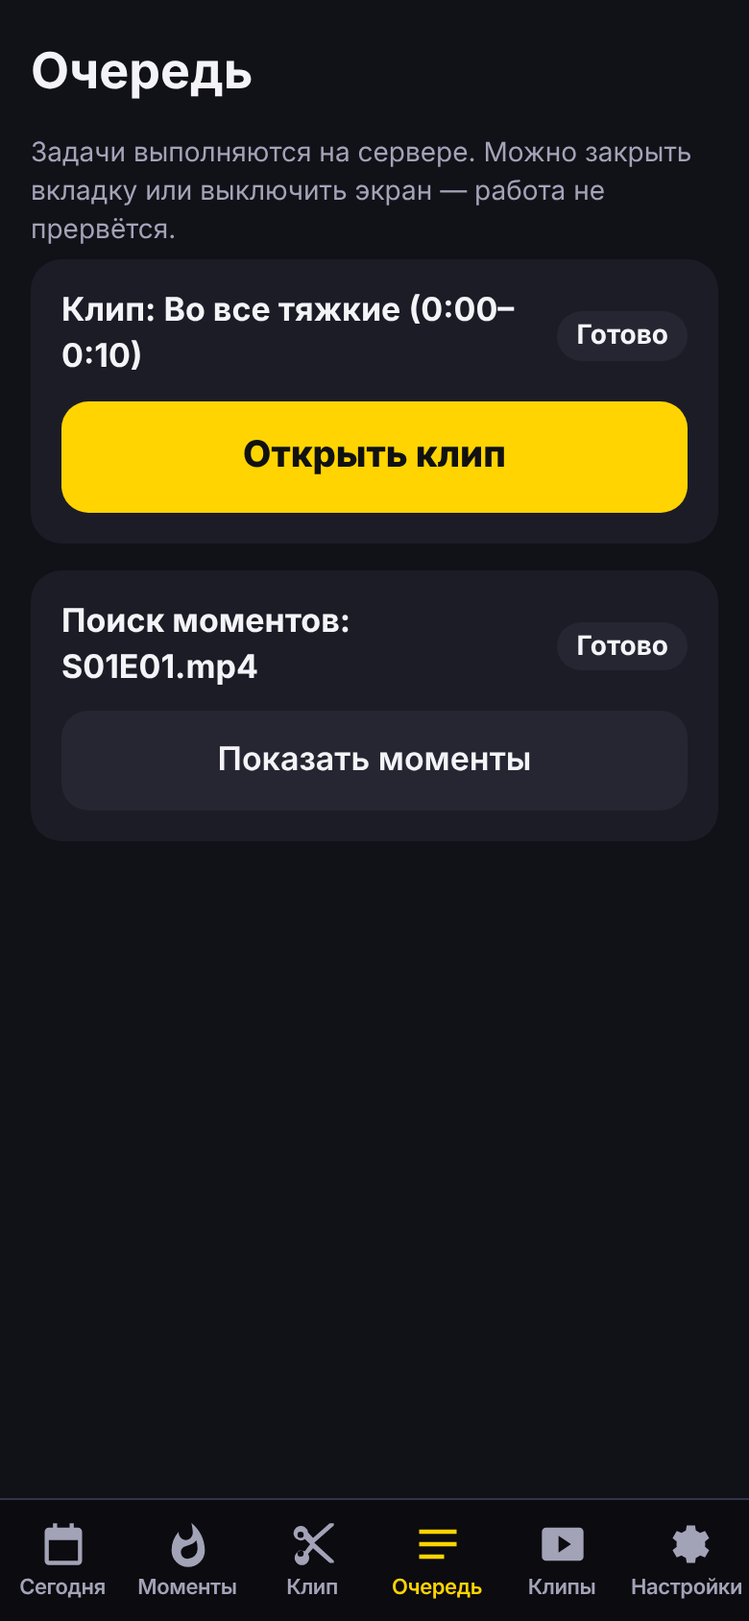
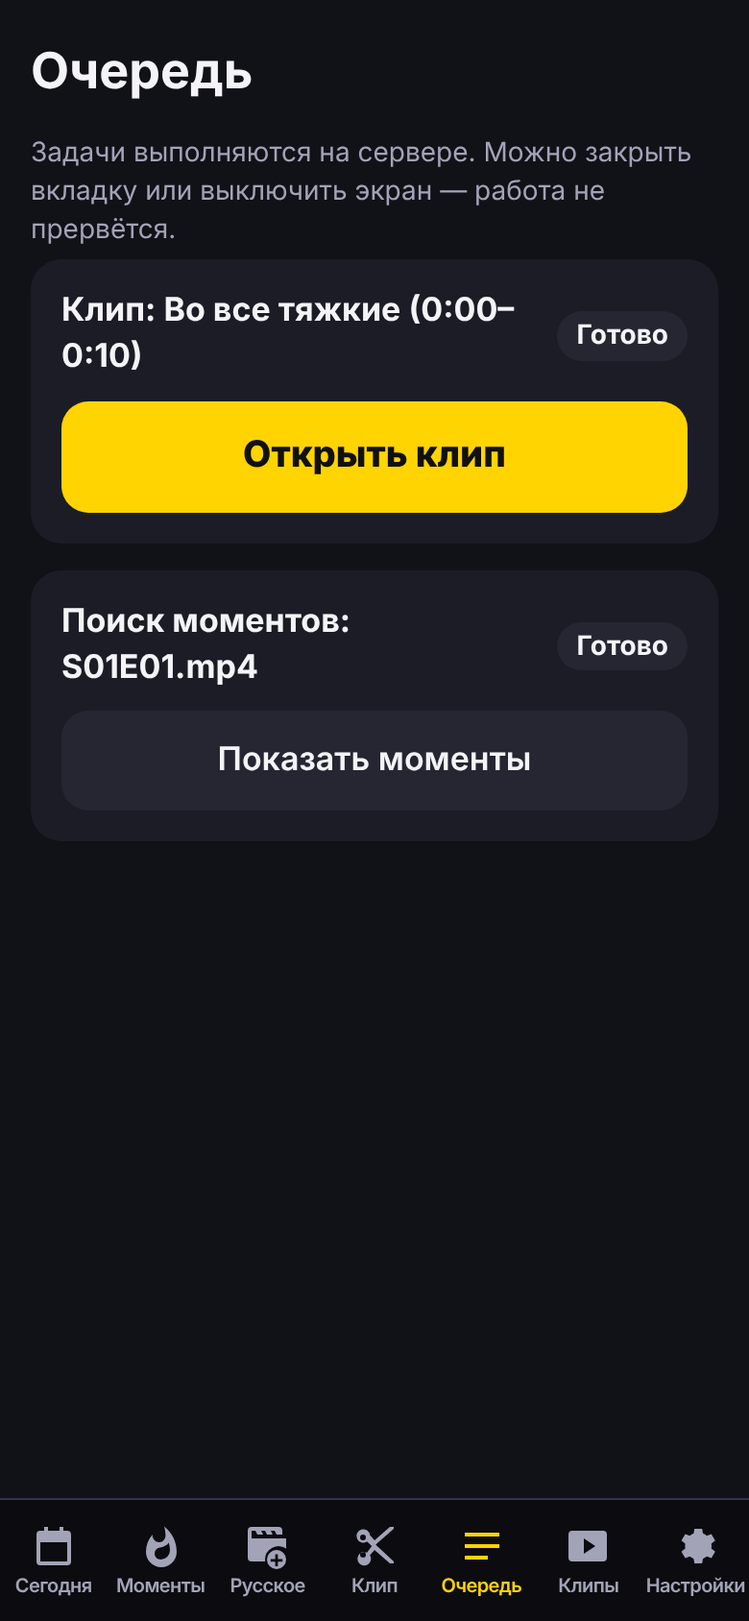
Android 1.6.0: вкладка «Русское» — русские и советские сериалы и фильмы из TMDB
- популярные сейчас, лучшие по рейтингу (с порогом голосов), новинки за год; сериалы и фильмы отдельно
- «Добавить в источники» создаёт источник, уже привязанный к TMDB; «есть у вас» для добавленных
- тесты ядра (параметры запроса, кэш, пометки) и UI-тест вкладки; раздел 4.3 инструкции

Claude-Session: https://claude.ai/code/session_01GmRk3o1bWmQHZC2pcQfkKJ

Changed region(s): [[0.1538, 0.9242, 1.0, 0.9858], [0.0308, 0.9242, 0.1231, 0.9858]]

diff --git a/android/app/src/main/assets/web/app.js b/android/app/src/main/assets/web/app.js
@@ -70,7 +70,7 @@ async function pollJob(id, onUpdate) {
 function bar(frac) { return `<div class="progress"><i style="width:${Math.round((frac || 0) * 100)}%"></i></div>`; }
 
 // ------------------------------------------------------------------ роутер
-const routes = { today: viewToday, discover: viewDiscover, clip: viewClip, cam: viewCam, queue: viewQueue, clips: viewClips,
+const routes = { today: viewToday, discover: viewDiscover, ru: viewRu, clip: viewClip, cam: viewCam, queue: viewQueue, clips: viewClips,
   clipview: viewClipView, settings: viewSettings, source: viewSource };
 
 function parseHash() {
@@ -948,6 +948,61 @@ async function tmdbSource(id, refresh) {
   }));
 }
 
+// ------------------------------------------------------------------ «Русское»: русские и советские сериалы и фильмы (TMDB)
+const RU_KINDS = [["popular", "Популярные сейчас"], ["top", "Лучшие по рейтингу"], ["new", "Новинки за год"]];
+async function viewRu(_arg, q) {
+  const seq = S.seq;
+  await loadCfg();
+  if (staleSince(seq)) return;
+  S.ru = S.ru || { type: "tv", kind: "popular" };
+  const st = S.ru;
+  app.innerHTML = `<h1>Русское</h1>
+  <div class="seg" id="ruType"><button data-t="tv" class="${st.type === "tv" ? "on" : ""}">Сериалы</button><button data-t="movie" class="${st.type === "movie" ? "on" : ""}">Фильмы</button></div>
+  <div class="seg seg3" id="ruKind" style="margin-top:8px">${RU_KINDS.map(([k, n]) => `<button data-k="${k}" class="${st.kind === k ? "on" : ""}">${n}</button>`).join("")}</div>
+  <p class="muted small" style="margin:10px 2px">Русские и советские ${st.type === "tv" ? "сериалы" : "фильмы"} по данным TMDB. «Добавить в источники» —
+    и дальше как обычно: выберите папку, куда положили видео, и автоплан найдёт моменты.</p>
+  <div id="ruBox"><p class="muted pad">Загружаю…</p></div>`;
+  $$("#ruType button").forEach((b) => (b.onclick = () => { st.type = b.dataset.t; viewRu(); }));
+  $$("#ruKind button").forEach((b) => (b.onclick = () => { st.kind = b.dataset.k; viewRu(); }));
+  let page = 1, items = [];
+  const box = $("#ruBox");
+  const load = async (refresh) => {
+    let d;
+    try { d = await api(`/api/tmdb/ru?type=${st.type}&kind=${st.kind}&page=${page}` + (refresh ? "&refresh=1" : "")); }
+    catch (e) { box.innerHTML = `<p class="err pad">${esc(e.message)}</p>`; return; }
+    if (staleSince(seq) || !box.isConnected) return;
+    if (!d.configured) {
+      box.innerHTML = `<div class="card stack"><h2>Нужен ключ TMDB</h2>
+        <p>Списки берутся из TMDB. Ключ бесплатный: themoviedb.org → «Настройки» → «API» (пошагово — в инструкции, раздел 4.2).</p>
+        <a class="btn primary" href="#/settings">Ввести ключ в «Настройках»</a></div>`;
+      return;
+    }
+    items = items.concat(d.items || []);
+    box.innerHTML = `<div class="card">${items.length ? items.map((t, i) => `<div class="ruitem">
+        <b class="wrap">${i + 1}. ${esc(t.title)}${t.year ? ` (${esc(t.year)})` : ""}</b>
+        <span class="small">★ ${fmtRating(t.rating)} <span class="muted">· ${t.votes} голосов</span>${t.source_id ? ' · <span class="ok">есть у вас</span>' : ""}</span>
+        ${t.overview ? `<span class="muted small wrap">${esc(t.overview)}</span>` : ""}
+        <div class="row">${t.source_id ? `<a class="btn sm" href="#/source/${encodeURIComponent(t.source_id)}">Открыть источник</a>`
+          : `<button class="btn sm primary" data-add="${i}">Добавить в источники</button>`}
+          <a class="btn sm ghost" target="_blank" rel="noopener" href="https://www.themoviedb.org/${t.type}/${t.id}?language=ru-RU">TMDB ↗</a></div></div>`).join("")
+        : `<p class="muted">Ничего не нашлось.</p>`}
+      ${d.page < d.total_pages && page < 20 ? `<div style="height:10px"></div><button class="btn ghost" id="ruMore">Показать ещё</button>` : ""}</div>`;
+    $$("[data-add]", box).forEach((b) => (b.onclick = async () => {
+      const t = items[+b.dataset.add];
+      b.disabled = true;
+      const saved = await api("/api/sources", { method: "POST", body: { type: t.type === "tv" ? "series" : "movie", title: t.title,
+        tmdb_id: t.id, tmdb_type: t.type, enabled: true } }).catch(() => null);
+      if (!saved) { b.disabled = false; return; }
+      await loadCfg(true);
+      toast("Добавлено. Выберите папку с видео и сохраните");
+      go(`#/source/${encodeURIComponent(saved.id)}`);
+    }));
+    const more = $("#ruMore", box);
+    if (more) more.onclick = () => { more.disabled = true; page++; load(false); };
+  };
+  load(!!(q && q.get && q.get("refresh") === "1"));
+}
+
 function appAsrCard(st, se) {
   const models = st.asr_models || [];
   const langs = [["auto", "Определять автоматически"], ["ru", "Русский"], ["en", "English"], ["uk", "Українська"]];
@@ -1079,5 +1134,8 @@ async function viewSource(id) {
 
 // ------------------------------------------------------------------ старт
 if (!APP && "serviceWorker" in navigator && window.isSecureContext) navigator.serviceWorker.register("/sw.js").catch(() => {});
-if (APP) { const t = $('#nav a[data-tab="discover"]'); t.hidden = false; $("#nav").classList.add("n6"); }
+if (APP) {
+  for (const k of ["discover", "ru"]) $(`#nav a[data-tab="${k}"]`).hidden = false;
+  $("#nav").classList.add("n7");
+}
 route(); refreshBadge();

diff --git a/tclip/static/app.js b/tclip/static/app.js
@@ -70,7 +70,7 @@ async function pollJob(id, onUpdate) {
 function bar(frac) { return `<div class="progress"><i style="width:${Math.round((frac || 0) * 100)}%"></i></div>`; }
 
 // ------------------------------------------------------------------ роутер
-const routes = { today: viewToday, discover: viewDiscover, clip: viewClip, cam: viewCam, queue: viewQueue, clips: viewClips,
+const routes = { today: viewToday, discover: viewDiscover, ru: viewRu, clip: viewClip, cam: viewCam, queue: viewQueue, clips: viewClips,
   clipview: viewClipView, settings: viewSettings, source: viewSource };
 
 function parseHash() {
@@ -948,6 +948,61 @@ async function tmdbSource(id, refresh) {
   }));
 }
 
+// ------------------------------------------------------------------ «Русское»: русские и советские сериалы и фильмы (TMDB)
+const RU_KINDS = [["popular", "Популярные сейчас"], ["top", "Лучшие по рейтингу"], ["new", "Новинки за год"]];
+async function viewRu(_arg, q) {
+  const seq = S.seq;
+  await loadCfg();
+  if (staleSince(seq)) return;
+  S.ru = S.ru || { type: "tv", kind: "popular" };
+  const st = S.ru;
+  app.innerHTML = `<h1>Русское</h1>
+  <div class="seg" id="ruType"><button data-t="tv" class="${st.type === "tv" ? "on" : ""}">Сериалы</button><button data-t="movie" class="${st.type === "movie" ? "on" : ""}">Фильмы</button></div>
+  <div class="seg seg3" id="ruKind" style="margin-top:8px">${RU_KINDS.map(([k, n]) => `<button data-k="${k}" class="${st.kind === k ? "on" : ""}">${n}</button>`).join("")}</div>
+  <p class="muted small" style="margin:10px 2px">Русские и советские ${st.type === "tv" ? "сериалы" : "фильмы"} по данным TMDB. «Добавить в источники» —
+    и дальше как обычно: выберите папку, куда положили видео, и автоплан найдёт моменты.</p>
+  <div id="ruBox"><p class="muted pad">Загружаю…</p></div>`;
+  $$("#ruType button").forEach((b) => (b.onclick = () => { st.type = b.dataset.t; viewRu(); }));
+  $$("#ruKind button").forEach((b) => (b.onclick = () => { st.kind = b.dataset.k; viewRu(); }));
+  let page = 1, items = [];
+  const box = $("#ruBox");
+  const load = async (refresh) => {
+    let d;
+    try { d = await api(`/api/tmdb/ru?type=${st.type}&kind=${st.kind}&page=${page}` + (refresh ? "&refresh=1" : "")); }
+    catch (e) { box.innerHTML = `<p class="err pad">${esc(e.message)}</p>`; return; }
+    if (staleSince(seq) || !box.isConnected) return;
+    if (!d.configured) {
+      box.innerHTML = `<div class="card stack"><h2>Нужен ключ TMDB</h2>
+        <p>Списки берутся из TMDB. Ключ бесплатный: themoviedb.org → «Настройки» → «API» (пошагово — в инструкции, раздел 4.2).</p>
+        <a class="btn primary" href="#/settings">Ввести ключ в «Настройках»</a></div>`;
+      return;
+    }
+    items = items.concat(d.items || []);
+    box.innerHTML = `<div class="card">${items.length ? items.map((t, i) => `<div class="ruitem">
+        <b class="wrap">${i + 1}. ${esc(t.title)}${t.year ? ` (${esc(t.year)})` : ""}</b>
+        <span class="small">★ ${fmtRating(t.rating)} <span class="muted">· ${t.votes} голосов</span>${t.source_id ? ' · <span class="ok">есть у вас</span>' : ""}</span>
+        ${t.overview ? `<span class="muted small wrap">${esc(t.overview)}</span>` : ""}
+        <div class="row">${t.source_id ? `<a class="btn sm" href="#/source/${encodeURIComponent(t.source_id)}">Открыть источник</a>`
+          : `<button class="btn sm primary" data-add="${i}">Добавить в источники</button>`}
+          <a class="btn sm ghost" target="_blank" rel="noopener" href="https://www.themoviedb.org/${t.type}/${t.id}?language=ru-RU">TMDB ↗</a></div></div>`).join("")
+        : `<p class="muted">Ничего не нашлось.</p>`}
+      ${d.page < d.total_pages && page < 20 ? `<div style="height:10px"></div><button class="btn ghost" id="ruMore">Показать ещё</button>` : ""}</div>`;
+    $$("[data-add]", box).forEach((b) => (b.onclick = async () => {
+      const t = items[+b.dataset.add];
+      b.disabled = true;
+      const saved = await api("/api/sources", { method: "POST", body: { type: t.type === "tv" ? "series" : "movie", title: t.title,
+        tmdb_id: t.id, tmdb_type: t.type, enabled: true } }).catch(() => null);
+      if (!saved) { b.disabled = false; return; }
+      await loadCfg(true);
+      toast("Добавлено. Выберите папку с видео и сохраните");
+      go(`#/source/${encodeURIComponent(saved.id)}`);
+    }));
+    const more = $("#ruMore", box);
+    if (more) more.onclick = () => { more.disabled = true; page++; load(false); };
+  };
+  load(!!(q && q.get && q.get("refresh") === "1"));
+}
+
 function appAsrCard(st, se) {
   const models = st.asr_models || [];
   const langs = [["auto", "Определять автоматически"], ["ru", "Русский"], ["en", "English"], ["uk", "Українська"]];
@@ -1079,5 +1134,8 @@ async function viewSource(id) {
 
 // ------------------------------------------------------------------ старт
 if (!APP && "serviceWorker" in navigator && window.isSecureContext) navigator.serviceWorker.register("/sw.js").catch(() => {});
-if (APP) { const t = $('#nav a[data-tab="discover"]'); t.hidden = false; $("#nav").classList.add("n6"); }
+if (APP) {
+  for (const k of ["discover", "ru"]) $(`#nav a[data-tab="${k}"]`).hidden = false;
+  $("#nav").classList.add("n7");
+}
 route(); refreshBadge();

diff --git a/android/app/src/main/assets/web/index.html b/android/app/src/main/assets/web/index.html
@@ -19,6 +19,7 @@
 <nav id="nav">
   <a href="#/today" data-tab="today"><svg viewBox="0 0 24 24"><path d="M7 2v2H5a2 2 0 0 0-2 2v14a2 2 0 0 0 2 2h14a2 2 0 0 0 2-2V6a2 2 0 0 0-2-2h-2V2h-2v2H9V2zm-2 8h14v10H5z"/></svg><span>Сегодня</span></a>
   <a href="#/discover" data-tab="discover" hidden><svg viewBox="0 0 24 24"><path d="M13.5 1.7s.7 2.6.7 4.7c0 2-1.3 3.6-3.3 3.6S7.4 8.4 7.4 6.4l.03-.36A13.4 13.4 0 0 0 4 15a8 8 0 0 0 16 0c0-5.4-2.6-10.2-6.5-13.3M11.7 19c-1.8 0-3.2-1.4-3.2-3.1 0-1.6 1-2.7 2.8-3.1 1.8-.4 3.6-1.2 4.6-2.6.4 1.3.6 2.7.6 4.1A4.8 4.8 0 0 1 11.7 19"/></svg><span>Моменты</span></a>
+  <a href="#/ru" data-tab="ru" hidden><svg viewBox="0 0 24 24"><path d="M4 4h2l1 2h3L9 4h2l1 2h3l-1-2h2l1 2h3V4a2 2 0 0 0-2-2H4a2 2 0 0 0-2 2v14a2 2 0 0 0 2 2h7.1a6.5 6.5 0 0 1-.1-1A7 7 0 0 1 22 13.3V8H4zm13 10a5 5 0 1 0 0 10 5 5 0 0 0 0-10m-.7 2.3h1.4v2.4h2.4v1.4h-2.4v2.4h-1.4v-2.4h-2.4v-1.4h2.4z"/></svg><span>Русское</span></a>
   <a href="#/clip" data-tab="clip"><svg viewBox="0 0 24 24"><path d="M9.6 6.3 12 9l8-7h2v1l-9.4 8.3L22 20v1h-2l-8-7-2.4 2.7a3.5 3.5 0 1 1-1.5-1.3L10.6 12 8.1 9.6A3.5 3.5 0 1 1 9.6 6.3M6 9a1.5 1.5 0 1 0 0-3 1.5 1.5 0 0 0 0 3m0 9a1.5 1.5 0 1 0 0-3 1.5 1.5 0 0 0 0 3"/></svg><span>Клип</span></a>
   <a href="#/queue" data-tab="queue"><svg viewBox="0 0 24 24"><path d="M3 5h18v2H3zm0 6h18v2H3zm0 6h12v2H3z"/></svg><span>Очередь</span><b id="qbadge" hidden></b></a>
   <a href="#/clips" data-tab="clips"><svg viewBox="0 0 24 24"><path d="M4 4h16a2 2 0 0 1 2 2v12a2 2 0 0 1-2 2H4a2 2 0 0 1-2-2V6a2 2 0 0 1 2-2m6 4v8l6-4z"/></svg><span>Клипы</span></a>

diff --git a/tclip/static/index.html b/tclip/static/index.html
@@ -19,6 +19,7 @@
 <nav id="nav">
   <a href="#/today" data-tab="today"><svg viewBox="0 0 24 24"><path d="M7 2v2H5a2 2 0 0 0-2 2v14a2 2 0 0 0 2 2h14a2 2 0 0 0 2-2V6a2 2 0 0 0-2-2h-2V2h-2v2H9V2zm-2 8h14v10H5z"/></svg><span>Сегодня</span></a>
   <a href="#/discover" data-tab="discover" hidden><svg viewBox="0 0 24 24"><path d="M13.5 1.7s.7 2.6.7 4.7c0 2-1.3 3.6-3.3 3.6S7.4 8.4 7.4 6.4l.03-.36A13.4 13.4 0 0 0 4 15a8 8 0 0 0 16 0c0-5.4-2.6-10.2-6.5-13.3M11.7 19c-1.8 0-3.2-1.4-3.2-3.1 0-1.6 1-2.7 2.8-3.1 1.8-.4 3.6-1.2 4.6-2.6.4 1.3.6 2.7.6 4.1A4.8 4.8 0 0 1 11.7 19"/></svg><span>Моменты</span></a>
+  <a href="#/ru" data-tab="ru" hidden><svg viewBox="0 0 24 24"><path d="M4 4h2l1 2h3L9 4h2l1 2h3l-1-2h2l1 2h3V4a2 2 0 0 0-2-2H4a2 2 0 0 0-2 2v14a2 2 0 0 0 2 2h7.1a6.5 6.5 0 0 1-.1-1A7 7 0 0 1 22 13.3V8H4zm13 10a5 5 0 1 0 0 10 5 5 0 0 0 0-10m-.7 2.3h1.4v2.4h2.4v1.4h-2.4v2.4h-1.4v-2.4h-2.4v-1.4h2.4z"/></svg><span>Русское</span></a>
   <a href="#/clip" data-tab="clip"><svg viewBox="0 0 24 24"><path d="M9.6 6.3 12 9l8-7h2v1l-9.4 8.3L22 20v1h-2l-8-7-2.4 2.7a3.5 3.5 0 1 1-1.5-1.3L10.6 12 8.1 9.6A3.5 3.5 0 1 1 9.6 6.3M6 9a1.5 1.5 0 1 0 0-3 1.5 1.5 0 0 0 0 3m0 9a1.5 1.5 0 1 0 0-3 1.5 1.5 0 0 0 0 3"/></svg><span>Клип</span></a>
   <a href="#/queue" data-tab="queue"><svg viewBox="0 0 24 24"><path d="M3 5h18v2H3zm0 6h18v2H3zm0 6h12v2H3z"/></svg><span>Очередь</span><b id="qbadge" hidden></b></a>
   <a href="#/clips" data-tab="clips"><svg viewBox="0 0 24 24"><path d="M4 4h16a2 2 0 0 1 2 2v12a2 2 0 0 1-2 2H4a2 2 0 0 1-2-2V6a2 2 0 0 1 2-2m6 4v8l6-4z"/></svg><span>Клипы</span></a>

diff --git a/android/app/src/main/assets/web/app.css b/android/app/src/main/assets/web/app.css
@@ -121,6 +121,8 @@ input[type=range]::-moz-range-thumb { width: 26px; height: 26px; border-radius: 
 #nav a.on { color: var(--accent); }
 #nav a[hidden] { display: none; }
 #nav.n6 a { font-size: 11px; letter-spacing: -.2px; }
+#nav.n7 a { font-size: 10px; letter-spacing: -.3px; }
+#nav.n7 a svg { width: 24px; height: 24px; }
 #qbadge { position: absolute; top: 6px; left: 54%; min-width: 20px; height: 20px; padding: 0 5px; border-radius: 10px; background: var(--err);
   color: #fff; font-size: 12px; line-height: 20px; text-align: center; }
 #toast { position: fixed; left: 16px; right: 16px; bottom: calc(var(--nav-h) + env(safe-area-inset-bottom) + 12px);
@@ -141,3 +143,7 @@ details.card > summary { cursor: pointer; min-height: 32px; display: flex; align
 .mom .row .btn { width: auto; flex: 1; }
 .sheet { position: fixed; inset: 0; background: rgba(0, 0, 0, .6); z-index: 20; display: flex; align-items: flex-end; }
 .sheet > div { background: var(--card); width: 100%; max-height: 85vh; overflow-y: auto; border-radius: 18px 18px 0 0; padding: 16px 16px calc(16px + env(safe-area-inset-bottom)); }
+
+/* «Русское» */
+.ruitem { display: flex; flex-direction: column; gap: 6px; padding: 12px; border-radius: 12px; background: var(--card2); margin-top: 8px; }
+.ruitem .row .btn { width: auto; flex: 1; }

diff --git a/tclip/static/app.css b/tclip/static/app.css
@@ -121,6 +121,8 @@ input[type=range]::-moz-range-thumb { width: 26px; height: 26px; border-radius: 
 #nav a.on { color: var(--accent); }
 #nav a[hidden] { display: none; }
 #nav.n6 a { font-size: 11px; letter-spacing: -.2px; }
+#nav.n7 a { font-size: 10px; letter-spacing: -.3px; }
+#nav.n7 a svg { width: 24px; height: 24px; }
 #qbadge { position: absolute; top: 6px; left: 54%; min-width: 20px; height: 20px; padding: 0 5px; border-radius: 10px; background: var(--err);
   color: #fff; font-size: 12px; line-height: 20px; text-align: center; }
 #toast { position: fixed; left: 16px; right: 16px; bottom: calc(var(--nav-h) + env(safe-area-inset-bottom) + 12px);
@@ -141,3 +143,7 @@ details.card > summary { cursor: pointer; min-height: 32px; display: flex; align
 .mom .row .btn { width: auto; flex: 1; }
 .sheet { position: fixed; inset: 0; background: rgba(0, 0, 0, .6); z-index: 20; display: flex; align-items: flex-end; }
 .sheet > div { background: var(--card); width: 100%; max-height: 85vh; overflow-y: auto; border-radius: 18px 18px 0 0; padding: 16px 16px calc(16px + env(safe-area-inset-bottom)); }
+
+/* «Русское» */
+.ruitem { display: flex; flex-direction: column; gap: 6px; padding: 12px; border-radius: 12px; background: var(--card2); margin-top: 8px; }
+.ruitem .row .btn { width: auto; flex: 1; }

diff --git a/android/tools/jvmtest/CoreTest.java b/android/tools/jvmtest/CoreTest.java
@@ -368,6 +368,31 @@ public class CoreTest {
                 check(e.getMessage().contains("не принял ключ"), e.getMessage());
             }
         });
+        test("TMDB «Русское»: язык оригинала ru, лучшие — с порогом голосов, новинки — за год, пометка «есть у вас»", () -> {
+            Store store = new Store(Files.createTempDirectory("ru").toFile());
+            store.upsertSource(new JSONObject().put("id", "kuhnya").put("type", "series").put("title", "Кухня").put("tmdb_id", 63770).put("tmdb_type", "tv"));
+            final List<String> urls = new ArrayList<>();
+            Tmdb t = new Tmdb(store, (url, h, b) -> {
+                urls.add(url);
+                return new Net.Resp(200, "{\"page\":1,\"total_pages\":3,\"results\":[{\"id\":63770,\"name\":\"Кухня\",\"first_air_date\":\"2012-11-12\",\"vote_average\":7.9,\"vote_count\":300},"
+                        + "{\"id\":7,\"name\":\"Другой сериал\",\"vote_average\":7.1,\"vote_count\":80}]}");
+            });
+            check(!t.russian("tv", "popular", 1, false).getBoolean("configured"), "без ключа");
+            store.saveSettings(new JSONObject().put("tmdb_key", "k123"));
+            JSONObject pop = t.russian("tv", "popular", 1, false);
+            JSONArray it = pop.getJSONArray("items");
+            check(it.length() == 2 && it.getJSONObject(0).getString("source_id").equals("kuhnya") && !it.getJSONObject(1).has("source_id"), it.toString());
+            check(pop.getInt("total_pages") == 3, "страницы");
+            String u0 = urls.get(0);
+            check(u0.contains("discover/tv?") && u0.contains("with_original_language=ru") && u0.contains("sort_by=popularity.desc") && u0.contains("language=ru-RU"), u0);
+            t.russian("movie", "top", 2, false);
+            String u1 = urls.get(1);
+            check(u1.contains("discover/movie?") && u1.contains("sort_by=vote_average.desc") && u1.contains("vote_count.gte=100") && u1.contains("page=2"), u1);
+            t.russian("tv", "new", 1, false);
+            check(urls.get(2).contains("first_air_date.gte=" + LocalDate.now().minusYears(1)), urls.get(2));
+            t.russian("tv", "popular", 1, false);
+            check(urls.size() == 3, "кэш списка");
+        });
         test("оценка сцен: эмоции в репликах поднимают момент при ровном звуке", () -> {
             double[] lv = new double[1200];
             Arrays.fill(lv, -30);

diff --git a/android/tools/jvmtest/DesktopServer.java b/android/tools/jvmtest/DesktopServer.java
@@ -42,7 +42,19 @@ public class DesktopServer {
     static Net.Resp fakeNet(String url, Map<String, String> h, String body) {
         String j;
         if (url.contains("api.themoviedb.org")) {
-            if (url.contains("/trending/")) j = "{\"results\":[{\"id\":1396,\"media_type\":\"tv\",\"name\":\"Во все тяжкие\",\"original_name\":\"Breaking Bad\",\"first_air_date\":\"2008-01-20\",\"vote_average\":8.9,\"vote_count\":15000},"
+            if (url.contains("/discover/")) {
+                boolean tv = url.contains("/discover/tv");
+                String[][] r = tv ? new String[][]{{"63770", "Кухня", "2012-11-12", "7.9"}, {"81", "Ликвидация", "2007-12-04", "8.5"}}
+                        : new String[][]{{"20992", "Брат", "1997-05-17", "8.0"}, {"5", "Москва слезам не верит", "1980-02-11", "7.9"}};
+                StringBuilder b = new StringBuilder("{\"page\":1,\"total_pages\":1,\"results\":[");
+                for (int i = 0; i < r.length; i++) {
+                    if (i > 0) b.append(',');
+                    b.append("{\"id\":").append(r[i][0]).append(tv ? ",\"name\":" : ",\"title\":").append(JSONObject.quote(r[i][1]))
+                            .append(tv ? ",\"first_air_date\":\"" : ",\"release_date\":\"").append(r[i][2]).append("\",\"vote_average\":").append(r[i][3])
+                            .append(",\"vote_count\":500,\"overview\":\"Описание для теста.\"}");
+                }
+                j = b.append("]}").toString();
+            } else if (url.contains("/trending/")) j = "{\"results\":[{\"id\":1396,\"media_type\":\"tv\",\"name\":\"Во все тяжкие\",\"original_name\":\"Breaking Bad\",\"first_air_date\":\"2008-01-20\",\"vote_average\":8.9,\"vote_count\":15000},"
                     + "{\"id\":603,\"media_type\":\"movie\",\"title\":\"Матрица\",\"release_date\":\"1999-03-31\",\"vote_average\":8.2,\"vote_count\":26000}]}";
             else if (url.contains("/top_rated")) j = "{\"results\":[{\"id\":1396,\"name\":\"Во все тяжкие\",\"title\":\"Во все тяжкие\",\"vote_average\":8.9}]}";
             else if (url.contains("/search/")) j = "{\"results\":[{\"id\":1396,\"media_type\":\"tv\",\"name\":\"Во все тяжкие\",\"original_name\":\"Breaking Bad\",\"vote_average\":8.9}]}";

diff --git a/android/app/src/main/java/ru/tiktokclipper/core/Tmdb.java b/android/app/src/main/java/ru/tiktokclipper/core/Tmdb.java
@@ -47,6 +47,35 @@ public final class Tmdb {
         return out;
     }
 
+    /**
+     * Русские (и советские) сериалы и фильмы — язык оригинала русский.
+     * kind: popular — популярные сейчас, top — лучшие по рейтингу (не меньше 50/100 голосов), new — новинки за год.
+     */
+    public JSONObject russian(String type, String kind, int page, boolean refresh) throws Exception {
+        JSONObject out = new JSONObject().put("configured", configured());
+        if (!configured()) return out;
+        String t = "movie".equals(type) ? "movie" : "tv";
+        StringBuilder q = new StringBuilder("discover/").append(t).append("?language=ru-RU&include_adult=false&with_original_language=ru")
+                .append("&page=").append(Math.max(1, Math.min(20, page)));
+        switch (kind) {
+            case "top":
+                q.append("&sort_by=vote_average.desc&vote_count.gte=").append(t.equals("tv") ? 50 : 100);
+                break;
+            case "new": {
+                String since = java.time.LocalDate.now().minusYears(1).toString();
+                q.append("&sort_by=popularity.desc&").append(t.equals("tv") ? "first_air_date.gte=" : "primary_release_date.gte=").append(since)
+                        .append("&vote_count.gte=5");
+                break;
+            }
+            default:
+                q.append("&sort_by=popularity.desc");
+        }
+        JSONObject r = get(q.toString(), LIST_TTL, refresh);
+        out.put("items", mark(items(r, t, 20), store.sources().getJSONArray("sources")));
+        out.put("page", r.optInt("page", page)).put("total_pages", r.optInt("total_pages", 1));
+        return out;
+    }
+
     public JSONArray search(String q) throws Exception {
         if (q.trim().isEmpty()) return new JSONArray();
         JSONArray all = items(get("search/multi?language=ru-RU&include_adult=false&query=" + Net.enc(q.trim()), LIST_TTL, false), null, 20);

diff --git a/android/app/src/main/java/ru/tiktokclipper/core/Api.java b/android/app/src/main/java/ru/tiktokclipper/core/Api.java
@@ -20,7 +20,7 @@ import java.util.Locale;
  * другие приложения на телефоне не смогут управлять нарезкой.
  */
 public class Api implements MiniHttp.Handler {
-    public static final String VERSION = "1.5.0-android";
+    public static final String VERSION = "1.6.0-android";
     public static final String COOKIE = "clipper_k";
 
     private final Store store;
@@ -184,6 +184,9 @@ public class Api implements MiniHttp.Handler {
                 boolean refresh = "1".equals(r.q("refresh", ""));
                 String what = seg.length > 1 ? seg[1] : "";
                 if (what.equals("lists") && m.equals("GET")) return MiniHttp.Response.json(tmdb.lists(refresh));
+                if (what.equals("ru") && m.equals("GET")) {
+                    return MiniHttp.Response.json(tmdb.russian(r.q("type", "tv"), r.q("kind", "popular"), Integer.parseInt(r.q("page", "1")), refresh));
+                }
                 if (what.equals("search") && m.equals("GET")) return MiniHttp.Response.json(new JSONObject().put("results", tmdb.search(r.q("q", ""))));
                 if (what.equals("source") && seg.length == 3 && m.equals("GET")) {
                     JSONObject src = store.getSource(seg[2]);
@@ -438,7 +441,7 @@ public class Api implements MiniHttp.Handler {
 
     private JSONObject cleanSource(JSONObject b) throws JSONException {
         JSONObject s = new JSONObject();
-        for (String k : new String[]{"id", "type", "title", "folder", "folder_uri", "enabled", "profile"}) {
+        for (String k : new String[]{"id", "type", "title", "folder", "folder_uri", "enabled", "profile", "tmdb_id", "tmdb_type"}) {
             if (b.has(k) && !(k.equals("id") && b.isNull(k))) s.put(k, b.get(k));
         }
         return s;

diff --git a/INSTRUCTION_APP.md b/INSTRUCTION_APP.md
@@ -95,6 +95,20 @@
 начинается с `eyJ`) → «Настройки» приложения → карточка **«Ключ TMDB»** → вставьте → **«Сохранить ключ»**.
 Если TMDB не открывается из вашей сети, автоплан всё равно работает — серии берутся по порядку.
 
+### 4.3. Вкладка «Русское»
+
+Русские и советские сериалы и фильмы по данным TMDB (язык оригинала — русский). Нужен ключ TMDB (4.2).
+
+* Вверху — **«Сериалы»** / **«Фильмы»**, ниже — **«Популярные сейчас»**, **«Лучшие по рейтингу»**
+  (только с достаточным числом оценок), **«Новинки за год»**. Внизу списка — **«Показать ещё»**.
+* У каждого названия: год, рейтинг, число голосов, краткое описание. **«TMDB ↗»** — страница с подробностями.
+* **«Добавить в источники»** — сериал или фильм сразу заводится в приложение (уже привязан к TMDB, рейтинг серий
+  подтянется сам). Откроется экран источника: **«Выбрать папку на телефоне»** → папка, куда вы положили видео →
+  **«Сохранить источник»**. Дальше — автоплан на вкладке «Моменты».
+* То, что уже есть среди ваших источников, отмечено **«есть у вас»** и открывается кнопкой «Открыть источник».
+
+Видео приложение не скачивает — только подсказывает, что популярно и что лучше оценено.
+
 ## 5. Если что-то пошло не так
 
 | Проблема | Причина | Что сделать |

diff --git a/android/INSTRUCTION_APP.md b/android/INSTRUCTION_APP.md
@@ -95,6 +95,20 @@
 начинается с `eyJ`) → «Настройки» приложения → карточка **«Ключ TMDB»** → вставьте → **«Сохранить ключ»**.
 Если TMDB не открывается из вашей сети, автоплан всё равно работает — серии берутся по порядку.
 
+### 4.3. Вкладка «Русское»
+
+Русские и советские сериалы и фильмы по данным TMDB (язык оригинала — русский). Нужен ключ TMDB (4.2).
+
+* Вверху — **«Сериалы»** / **«Фильмы»**, ниже — **«Популярные сейчас»**, **«Лучшие по рейтингу»**
+  (только с достаточным числом оценок), **«Новинки за год»**. Внизу списка — **«Показать ещё»**.
+* У каждого названия: год, рейтинг, число голосов, краткое описание. **«TMDB ↗»** — страница с подробностями.
+* **«Добавить в источники»** — сериал или фильм сразу заводится в приложение (уже привязан к TMDB, рейтинг серий
+  подтянется сам). Откроется экран источника: **«Выбрать папку на телефоне»** → папка, куда вы положили видео →
+  **«Сохранить источник»**. Дальше — автоплан на вкладке «Моменты».
+* То, что уже есть среди ваших источников, отмечено **«есть у вас»** и открывается кнопкой «Открыть источник».
+
+Видео приложение не скачивает — только подсказывает, что популярно и что лучше оценено.
+
 ## 5. Если что-то пошло не так
 
 | Проблема | Причина | Что сделать |
